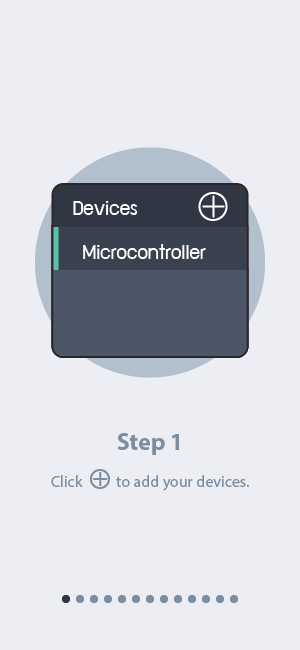
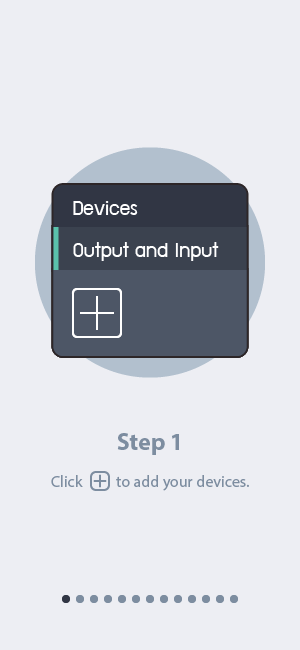
Edit tutorial image step 1 and 3 Edit font of combobox in configure device

diff --git a/src/main/resources/css/ConfigActualDeviceView.css b/src/main/resources/css/ConfigActualDeviceView.css
@@ -2,6 +2,7 @@
     -fx-focus-color: transparent;
     -fx-faint-focus-color: transparent;
     -fx-text-fill : black;
+    -fx-font-size:12px;
 }
 
 .label{
@@ -9,16 +10,19 @@
     -fx-text-fill : #313644;
     -fx-max-width: 100;
     -fx-min-width: 100;
+    -fx-font-size:12px;
 }
 #portComboBox{
     -fx-max-width: 75;
     -fx-min-width: 75;
     -fx-min-height: 25;
     -fx-max-height: 25;
+    -fx-font-size:12px;
 }
 #portComboBox:showing .list-view,#portComboBox:armed .list-view{
     -fx-max-width: 75;
     -fx-min-width: 75;
+    -fx-font-size:12px;
 }
 #deviceComboBox{
     -fx-max-width: 200;
@@ -38,6 +42,7 @@
     -fx-border-radius:3px;
     -fx-background-color: white;
     -fx-background-insets:0;
+    -fx-font-size:12px;
 }
 #deviceComboBox:showing .list-view,#deviceComboBox:armed .list-view {
     -fx-max-width: 200;
@@ -49,16 +54,19 @@
     -fx-text-fill: #313644;
     -fx-padding: 3 0 2 7;
     -fx-cell-size: 1.66667em;
+    -fx-font-size:12px;
 }
 .combo-box-popup .list-view .list-cell:filled:hover{
     -fx-background-color: #5ac2ab;
     -fx-background-radius:0;
     -fx-text-fill: white;
+    -fx-font-size:12px;
 }
 .combo-box-popup .list-view .list-cell:filled:selected{
     -fx-background-color: derive(#cccccc,40%);
     -fx-background-radius:0;
     -fx-text-fill: black;
+    -fx-font-size:12px;
 }
 .scroll-pane{
     -fx-padding:0;
